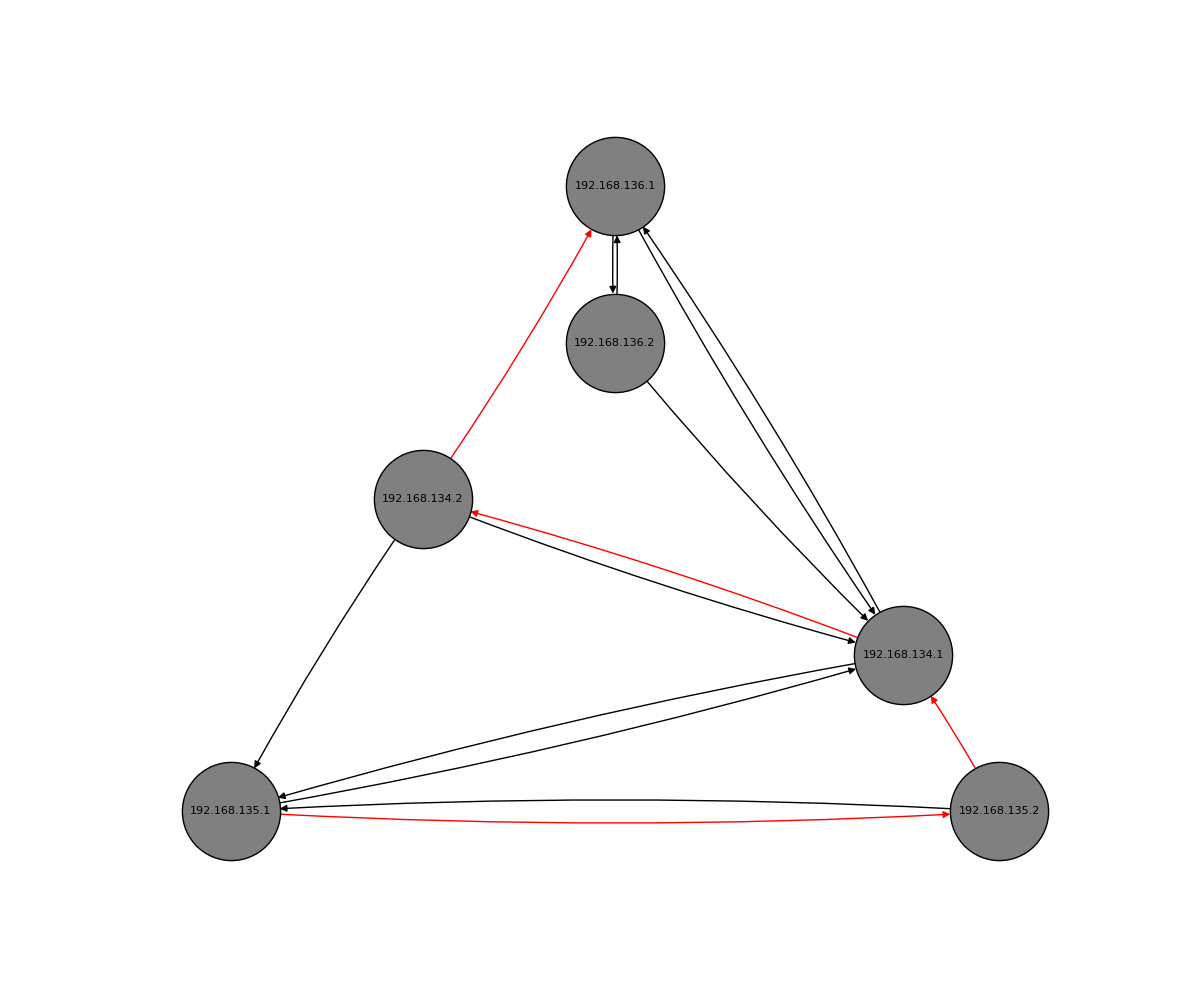
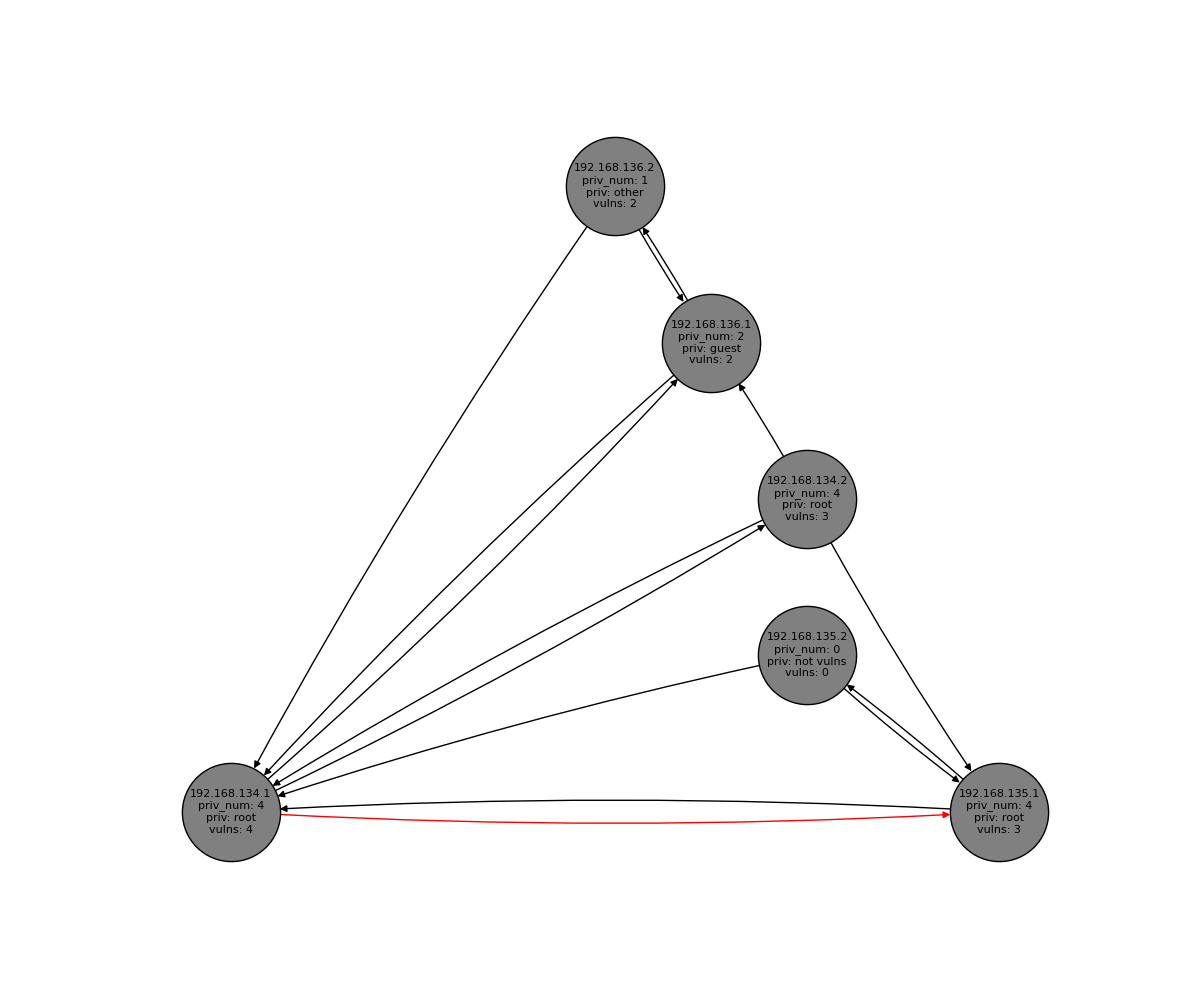
change nodes labels in graph

diff --git a/refactoring.py b/refactoring.py
@@ -6,7 +6,16 @@ from termcolor import colored
 
 ROOT_DIR = os.path.dirname(os.path.abspath(__file__))
 RESULT_DIR = ROOT_DIR + '/results'
+PRIV_DICT = {
+    0: 'not vulns',
+    1 : 'other',
+    2: 'guest',
+    3: 'user',
+    4: 'root',
+}
 fn_res = []
+
+
 def dfs(start, visited, path=None, node_c=0):
     if path is None:
         path = []
@@ -193,23 +202,26 @@ class Ilustrator():
         self.figsize = figsize * 2
 
 
-    def create_default_graph(self):
+    def create_default_graph(self, dict_for_graph_nodes):
         G = nx.DiGraph()
-        G.add_edges_from(self.def_edges, color=self.def_edge_color, weight=self.width)
+        G.add_edges_from(self.def_edges, color=self.def_edge_color, weight=self.width, edgecolor='black')
         edges = G.edges()
         colors = [G[u][v]['color'] for u, v in edges]
         weights = [G[u][v]['weight'] for u, v in edges]
         plt.figure(figsize=(self.figsize, self.figsize - 2))
+        labeldict = {}
+        for node in G.nodes():
+            labeldict[node] = dict_for_graph_nodes[node]
         pos = nx.planar_layout(G)
         g_nodes = nx.draw_networkx_nodes(G, pos=pos, node_size=self.node_size, node_color=self.node_color)
         nx.draw_networkx_edges(G, pos=pos, edgelist=edges, edge_color=colors, node_size=self.node_size, width=weights,
                                connectionstyle=self.connectionstyle)
         g_nodes.set_edgecolor(self.node_edge_color)
-        nx.draw_networkx_labels(G, pos=pos, font_size=self.font_size, font_color=self.font_color)
+        nx.draw_networkx_labels(G, pos=pos, font_size=self.font_size, font_color=self.font_color, labels=labeldict)
         plt.axis("off")
         plt.savefig(f"{RESULT_DIR}/def_graph.png", format="PNG")
 
-    def create_graph_attack_graph(self, i):
+    def create_graph_attack_graph(self, i, dict_for_graph_nodes):
         G = nx.DiGraph()
         G.add_edges_from(self.attack_edges, color=self.attack_edge_color, weight=self.width)
         G.add_edges_from(self.def_edges, color=self.def_edge_color, weight=self.width)
@@ -217,17 +229,24 @@ class Ilustrator():
         colors = [G[u][v]['color'] for u, v in edges]
         weights = [G[u][v]['weight'] for u, v in edges]
         plt.figure(figsize=(self.figsize, self.figsize - 2))
+        labeldict = {}
+        for node in G.nodes():
+            labeldict[node] = dict_for_graph_nodes[node]
         pos = nx.planar_layout(G)
         g_nodes = nx.draw_networkx_nodes(G, pos=pos, node_size=self.node_size, node_color=self.node_color)
         nx.draw_networkx_edges(G, pos=pos, edgelist=edges, edge_color=colors, node_size=self.node_size, width=weights,
                                connectionstyle=self.connectionstyle)
         g_nodes.set_edgecolor(self.node_edge_color)
-        nx.draw_networkx_labels(G, pos=pos, font_size=self.font_size, font_color=self.font_color)
+        nx.draw_networkx_labels(G, pos=pos, font_size=self.font_size, font_color=self.font_color, labels=labeldict)
         plt.axis("off")
         plt.savefig(f"{RESULT_DIR}/Graph{i}.png", format="PNG")
 
 
 def main(nodes):
+    for node in nodes:
+        dict_for_graph_nodes[node.ip_addr] = f"{node.ip_addr}\npriv_num: {node.max_priv}\npriv:" \
+                                             f" {PRIV_DICT[node.max_priv]}\nvulns:" \
+                                             f" {node.vuln_count}"
     menu_string = 'Выберите один адрес из доступных:\n'
     ip_addrs = list(map(lambda x: x.ip_addr, nodes))
     for i in ip_addrs:
@@ -247,13 +266,13 @@ def main(nodes):
     dfs(temp.start, visited=visited)
     attack_edges_list = temp.format_to_graph()
     def_edges = temp.get_default_edges(nodes)
-    result = Ilustrator(attack_edges=attack_edges_list, def_edges=def_edges, figsize = len(nodes))
-    result.create_default_graph()
+    result = Ilustrator(attack_edges=attack_edges_list, def_edges=def_edges, figsize=len(nodes))
+    result.create_default_graph(dict_for_graph_nodes=dict_for_graph_nodes)
     if len(attack_edges_list) > 0:
         for i in range(len(attack_edges_list)):
             temp_tuple = temp.get_attack_edges(def_edges=def_edges, temp_data=attack_edges_list[i])
             temp_res = Ilustrator(def_edges=temp_tuple[1], attack_edges=temp_tuple[0], figsize = len(nodes))
-            temp_res.create_graph_attack_graph(i)
+            temp_res.create_graph_attack_graph(i=i, dict_for_graph_nodes=dict_for_graph_nodes)
         print(colored("Графы атак успешно построены, результаты в папке \"results\"", "green"))
         return
     else:
@@ -274,6 +293,7 @@ if __name__ == '__main__':
         node.set_default_gateway(networks)
         node.set_linked_nodes(networks, nodes)
         node.set_max_vuln_priv(vulns_dict)
+    dict_for_graph_nodes = {}
     main(nodes)
     # data = Parser()
     # vulns_dict = data.parse_vulnerabilities()
